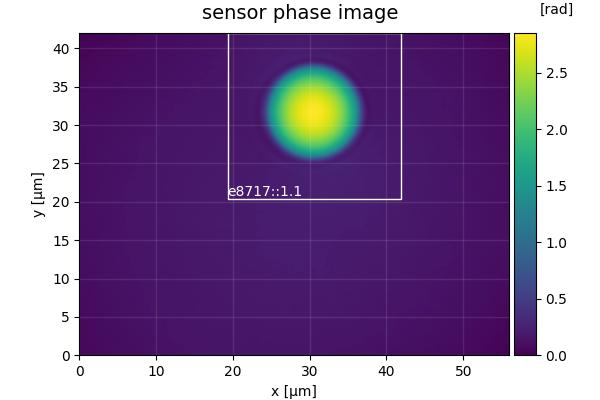
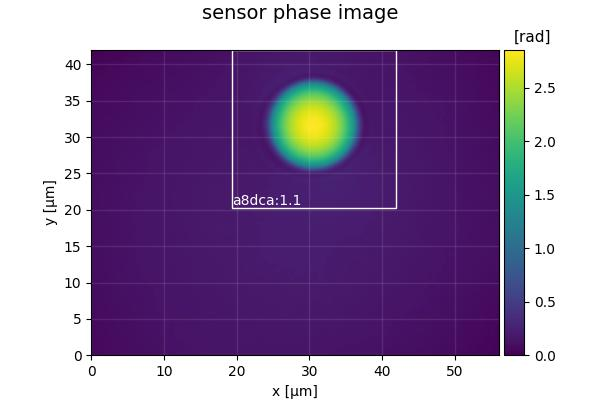
docs: update tutorials (rerender figures and link to figshare data)

diff --git a/docs/tutorials/t02_make_figures.py b/docs/tutorials/t02_make_figures.py
@@ -5,10 +5,16 @@ import numpy as np
 
 from t02_method_comparison import dot_boxplot
 
-path = "DHM_HL60_cells.zip"
+path = "data/DHM_HL60_cells.zip"
 
 # setup output directory
 path_in, path_out = cli.dialog.main(path)
+
+cfg = path_out / "drymass.cfg"
+if cfg.exists():
+    # cleanup first
+    cfg.unlink()
+
 
 # set metadata
 cfg = cli.config.ConfigFile(path_out)
@@ -21,7 +27,7 @@ cli.cli_extract_roi(path=path_in)
 
 # get image 27
 # Note: Remove the DHM_HL60_cells.zip_dm folder to reproduce the figure
-senpath = path_out / cli.FILE_SENSOR_WITH_ROI_IMAGE
+senpath = path_out / cli.extracting.FILE_SENSOR_WITH_ROI_IMAGE
 sentif = imageio.mimread(senpath)[26]
 imageio.imsave("_t02_roi_search1.jpg", sentif[..., :3])
 
@@ -44,8 +50,8 @@ cfg.set_value("sphere", "method", "edge")
 cfg.set_value("sphere", "model", "projection")
 cli.cli_analyze_sphere(path=path_in)
 
-senpath = path_out / cli.FILE_SPHERE_ANALYSIS_IMAGE.format("edge",
-                                                           "projection")
+senpath = path_out / cli.analyzing.FILE_SPHERE_ANALYSIS_IMAGE.format(
+    "edge", "projection")
 sentif = imageio.mimread(senpath)[52]
 imageio.imsave("_t02_edge_projection.jpg", sentif[..., :3])
 
@@ -64,8 +70,9 @@ cfg.set_value("sphere", "method", "image")
 cfg.set_value("sphere", "model", "rytov-sc")
 cli.cli_analyze_sphere(path=path_in)
 
-senpath = path_out / cli.FILE_SPHERE_ANALYSIS_IMAGE.format("image",
-                                                           "rytov-sc")
+
+senpath = path_out / cli.analyzing.FILE_SPHERE_ANALYSIS_IMAGE.format(
+    "image", "rytov-sc")
 sentif = imageio.mimread(senpath)[52]
 imageio.imsave("_t02_image_rytov-sc.jpg", sentif[..., :3])
 
@@ -89,5 +96,5 @@ ax = plt.subplot(111, title="HL60 (DHM)")
 ax.set_ylabel("refractive index")
 dot_boxplot(ax=ax, data=ri_data, colors=colors, labels=labels)
 plt.tight_layout()
-plt.savefig("_t02_reproduced_5d.jpg")
+plt.savefig("_t02_reproduced_5d.png")
 plt.close()

diff --git a/docs/tutorials/t01_make_figures.py b/docs/tutorials/t01_make_figures.py
@@ -3,10 +3,15 @@ import imageio
 import numpy as np
 
 
-path = "QLSR_PAA_beads"
+path = "data/QLSR_PAA_beads.zip"
 
 # setup output directory
 path_in, path_out = cli.dialog.main(path)
+
+cfg = path_out / "drymass.cfg"
+if cfg.exists():
+    # cleanup first
+    cfg.unlink()
 
 # set metadata
 cfg = cli.config.ConfigFile(path_out)
@@ -18,13 +23,13 @@ cfg.set_value("meta", "wavelength nm", 647)
 cli.cli_analyze_sphere(path=path_in)
 
 # get first sensor image
-senpath = path_out / cli.FILE_SENSOR_WITH_ROI_IMAGE
+senpath = path_out / cli.extracting.FILE_SENSOR_WITH_ROI_IMAGE
 sentif = imageio.imread(senpath)
 imageio.imsave("_t01_sensor_roi_image.jpg", sentif[..., :3])
 
 # get first sphere image
-roipath = path_out / cli.FILE_SPHERE_ANALYSIS_IMAGE.format("edge",
-                                                           "projection")
+roipath = path_out / cli.analyzing.FILE_SPHERE_ANALYSIS_IMAGE.format(
+    "edge", "projection")
 roitif = imageio.imread(roipath)
 imageio.imsave("_t01_sphere_edge_projection_image.jpg", roitif[..., :3])
 

diff --git a/docs/tutorials/t03_make_figures.py b/docs/tutorials/t03_make_figures.py
@@ -5,7 +5,7 @@ import matplotlib.pylab as plt
 import qpimage
 
 
-path = "QLSR_PAA_beads_modified.h5"
+path = "data/QLSR_PAA_beads_modified.h5"
 
 # setup output directory
 path_in, path_out = cli.dialog.main(path)

diff --git a/docs/tutorials/t01_ri_bead.rst b/docs/tutorials/t01_ri_bead.rst
@@ -20,7 +20,7 @@ For this tutorial, you need:
 
 - Python 3.6 or above and DryMass version 0.6.0 or above (see :ref:`section_install`)
 - `Fiji <https://fiji.sc/>`_ or Windows Photo Viewer (for data visualization)
-- Experimental dataset: `QLSR_PAA_beads.zip <https://github.com/RI-imaging/QPI-data/raw/master/QLSR_PAA_beads.zip>`_
+- Experimental dataset: `QLSR_PAA_beads.zip <https://ndownloader.figshare.com/files/17722790>`_ :cite:`MuellerQPIref19`
 
 Execute dm_analyze_sphere
 -------------------------
@@ -65,7 +65,7 @@ Photo Viewer). This is the first image stored in the tif file:
 
 It shows the full sensor phase image of the first bead. The white rectangle
 indicates the ROI that was found by DryMass, labeled with the identifier
-*e8717:1.1*. The file *sensor_roi_images.tif* allows you to check that
+*a8dca:1.1*. The file *sensor_roi_images.tif* allows you to check that
 DryMass has correctly found the objects that you are interested in. If the
 beads were not detected correctly, we would probably have to adjust the
 size parameter in the :ref:`sec_configuration_file` (see also 
@@ -91,7 +91,7 @@ Post-processing
 ---------------
 A closer examination of the phase-difference images shows that there seem to
 be either deformed beads or imaging artifacts in the images with the identifiers
-(prepend *e8717:*): *4.1, 7.1, 24.1, 26.1, 27.1, 35.1, 36.1, 39.1, 40.1, 51.1,
+(prepend *a8dca:*): *4.1, 7.1, 24.1, 26.1, 27.1, 35.1, 36.1, 39.1, 40.1, 51.1,
 52.1, 55.1, 58.1, 60.1, 64.1, 67.1,* and *71.1*. Due to their asymmetry
 we ignore these images in our analysis by editing the configuration file:
 

diff --git a/docs/tutorials/t02_hl60cells.rst b/docs/tutorials/t02_hl60cells.rst
@@ -18,7 +18,7 @@ For this tutorial, you need:
 
 - Python 3.6 or above and DryMass version 0.6.0 or above (see :ref:`section_install`)
 - `Fiji <https://fiji.sc/>`_ or Windows Photo Viewer (for data visualization)
-- Experimental dataset: `DHM_HL60_cells.zip <https://github.com/RI-imaging/QPI-data/raw/master/DHM_HL60_cells.zip>`_
+- Experimental dataset: `DHM_HL60_cells.zip <https://ndownloader.figshare.com/files/17722787>`_ :cite:`MuellerQPIref19`
 
 Find regions of interest
 ------------------------
@@ -115,7 +115,8 @@ this step:
 
 .. note::
 
-    Warnings about *slice and QPImage identifiers* can safely be ignored.
+    If you are using *roi_slices.txt* (above note), you can safely
+    ignore warnings about *slice and QPImage identifiers*.
     Setting the RI of the medium changes the internal ROI identifiers.
     Since we have fixed the ROIs, the identifiers do not match anymore,
     but the enumeration is still correct.

diff --git a/docs/tutorials/t03_background_geometry.rst b/docs/tutorials/t03_background_geometry.rst
@@ -34,7 +34,7 @@ For this tutorial, you need:
 
 - Python 3.6 or above and DryMass version 0.5.0 or above (see :ref:`section_install`)
 - `Fiji <https://fiji.sc/>`_ or Windows Photo Viewer (for data visualization)
-- Experimental dataset: `QLSR_PAA_beads_modified.zip <https://github.com/RI-imaging/QPI-data/raw/master/QLSR_PAA_beads_modified.zip>`_
+- Experimental dataset: `QLSR_PAA_beads_modified.zip <https://ndownloader.figshare.com/files/17722793>`_ :cite:`MuellerQPIref19`
 
 
 Take a glimpse at the data

diff --git a/docs/tutorials/t04_automation.rst b/docs/tutorials/t04_automation.rst
@@ -18,7 +18,7 @@ Prerequisites
 For this tutorial, you need:
 
 - Python 3.6 or above and DryMass version 0.8.0 or above (see :ref:`section_install`)
-- Experimental dataset: `DHM_HL60_cells.zip <https://github.com/RI-imaging/QPI-data/raw/master/DHM_HL60_cells.zip>`_
+- Experimental dataset: `DHM_HL60_cells.zip <https://ndownloader.figshare.com/files/17722787>`_ :cite:`MuellerQPIref19`
 
 Setup example measurements
 --------------------------

diff --git a/docs/zsec_bib.rst b/docs/zsec_bib.rst
@@ -3,3 +3,4 @@ Bilbliography
 =============
 
 .. bibliography:: drymass.bib
+
